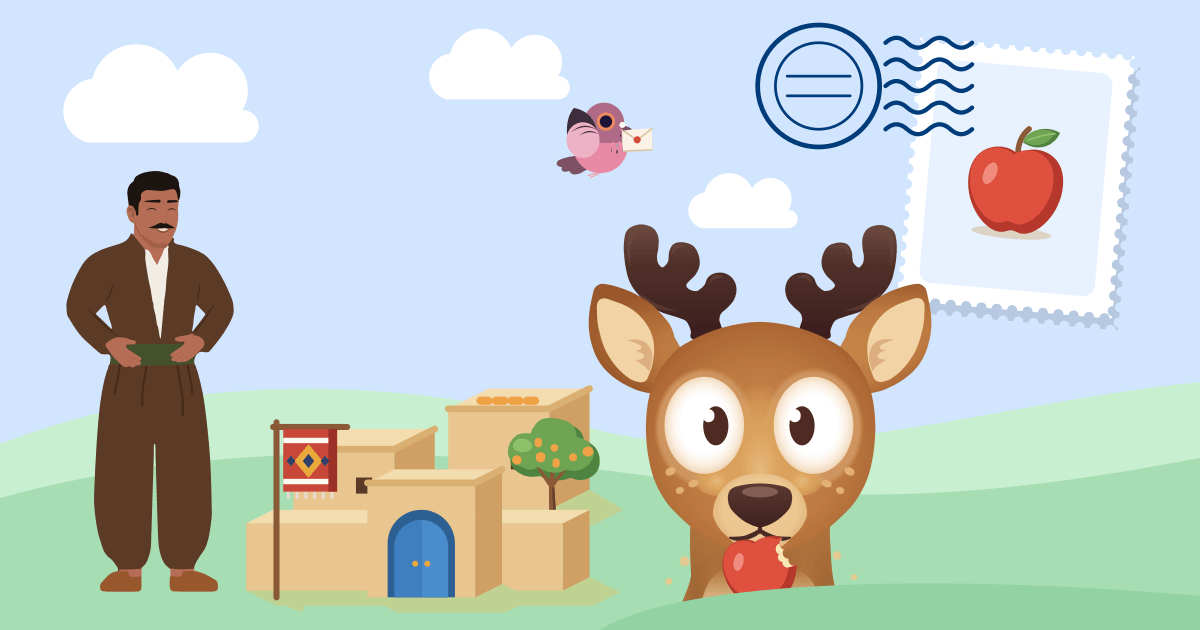
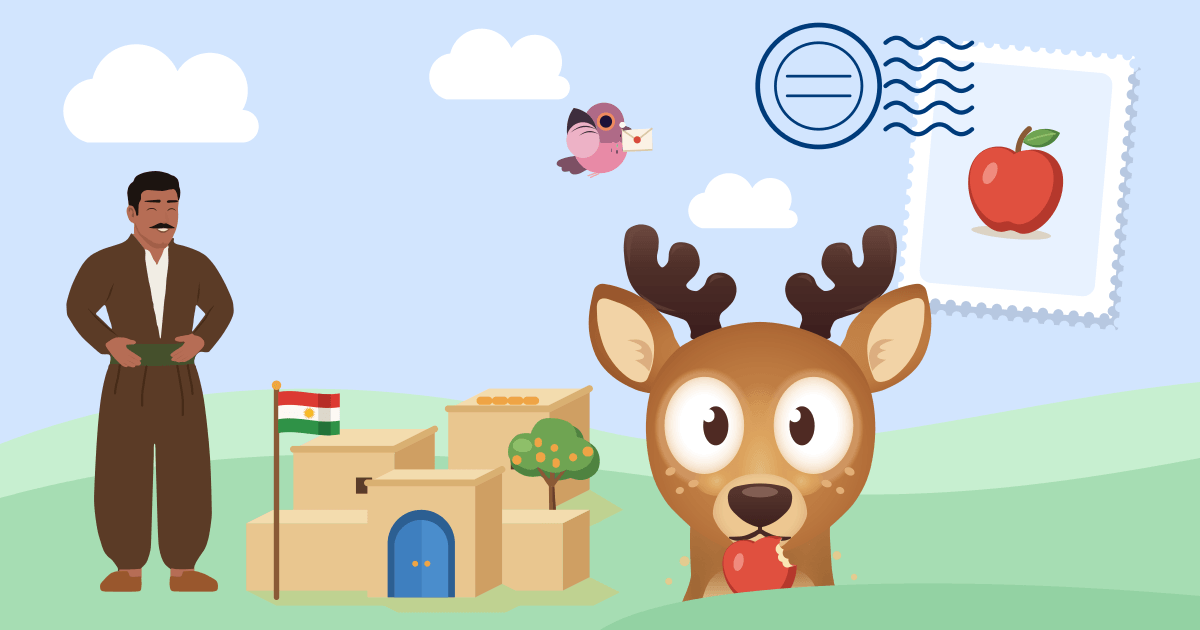
Every flag the flag of Kurdistan: the gate and the bazaar fly it in place of their hung kilims
By Sêvan's gate and over the bazaar's stalls a red kilim hung from a post,
which reads as a flag. Both now fly the flag of Kurdistan on a pole with a
gold knob, at rest in the drawing and stirring on both apps, as the school
and Amed's tower do, so every flag in the lesson path, the book's openers
and stamps, and the share pictures is Kurdistan's. The hung kilim and its
moving sprite are gone. The share pictures are drawn again: the lesson card
shows the gate's flag, and the word game's card the deer as it is drawn now.

Claude-Session: https://claude.ai/code/session_011eKY4xnopr5UAa1vaHj4wo

Changed region(s): [[0.2158, 0.6032, 0.3083, 0.8143]]

diff --git a/shared/src/art/valley-landmarks-1.ts b/shared/src/art/valley-landmarks-1.ts
@@ -129,29 +129,6 @@ function castShadow(x: number, y: number, w: number, d: number, len: number, col
 }
 
 /**
- * A kilim hung from its top edge, filling its 18 × 22 box as the moving
- * sprite does: a madder field with its turned edge in shade, two cream bands,
- * the saffron "eye" diamond with its indigo heart and a small eye either side
- * (the commonest mark of Kurdish flat weaves), and the wool fringe below.
- */
-function kilim(x: number, y: number, dark: boolean): string {
-  const cx = x + 8.5;
-  const cy = y + 10.5;
-  const eye = (ex: number, ey: number, rx: number, ry: number): string =>
-    `M${f(ex)} ${f(ey - ry)}L${f(ex + rx)} ${f(ey)}L${f(ex)} ${f(ey + ry)}L${f(ex - rx)} ${f(ey)}Z`;
-  let fringe = '';
-  for (let k = 0; k < 6; k++) fringe += `M${f(x + 2.5 + k * 2.6)} ${f(y + 19.4)}v2`;
-  return (
-    stroke(fringe, dusk(VALLEY.woolShade, dark), 0.9) +
-    fill(box(x + 1, y + 1, 16, 18.6), dusk(VALLEY.red, dark)) +
-    fill(box(x + 14.4, y + 1, 2.6, 18.6), dusk(VALLEY.redDark, dark)) +
-    fill(box(x + 1, y + 3.6, 13.4, 1.6) + box(x + 1, y + 15.8, 13.4, 1.6), dusk(VALLEY.cream, dark)) +
-    fill(eye(cx, cy, 4.2, 5), dusk(VALLEY.gold, dark)) +
-    fill(eye(cx, cy, 1.7, 2.1) + eye(x + 3.3, cy, 1.3, 1.6) + eye(x + 13.4, cy, 1.3, 1.6), dusk(VALLEY.indigo, dark))
-  );
-}
-
-/**
  * Steam at rest over a samovar, in its 16 × 24 box: three soft puffs going up
  * from the box's foot. By evening it takes a little more of the dusk than a
  * solid thing would, because it is thin and the light comes through it.
@@ -165,19 +142,36 @@ function steam(x: number, y: number, dark: boolean, random: () => number): strin
 // ───────────────────────────────────────────────────────────── the landmarks
 
 /** The first six chapters' landmarks, by name. */
-/** Where the flag of Kurdistan flies over Amed's tower: its pole at x 71, the cloth the apps make stir laid exactly over the one drawn. */
+/*
+ * Where the flag of Kurdistan flies in these chapters, each box's left edge on its pole: by Sêvan's gate to greet
+ * whoever comes up the road, over the bazaar's stalls, and over Amed's tower. The cloth the apps make stir is laid
+ * exactly over the one drawn.
+ */
+const GATE_FLAG: ValleyLandmark['loop'] = { kind: 'colours', x: 15, y: 50, w: 20, h: 16 };
+const BAZAAR_FLAG: ValleyLandmark['loop'] = { kind: 'colours', x: 96, y: 52, w: 20, h: 16 };
 const CITY_FLAG: ValleyLandmark['loop'] = { kind: 'colours', x: 71, y: 12, w: 20, h: 16 };
+
+/** A flagpole from the ground at (x, foot) up to the flag's box, with the gold knob at its top and its sliver of shadow. */
+function flagpole(box: ValleyLandmark['loop'], foot: number, dark: boolean, ground: string): string {
+  const x = box.x;
+  return (
+    fill(`M${f(x - 0.8)} ${f(foot - 0.6)}L${f(x + 6.4)} ${f(foot + 2.2)}L${f(x + 7)} ${f(foot + 1.2)}L${f(x + 0.8)} ${f(foot - 1.2)}Z`, ground) +
+    stroke(`M${f(x)} ${f(foot)}V${f(box.y)}`, dusk(VALLEY.trunk, dark), 1.6) +
+    fill(ellipsePath(x, box.y - 1, 1.4, 1.4), dusk(VALLEY.gold, dark)) +
+    kurdistanFlagAt(box, dark)
+  );
+}
 
 export const VALLEY_LANDMARKS_1: Record<'gate' | 'teahouse' | 'spring' | 'bazaar' | 'busstop' | 'citywall', ValleyLandmark> = {
   /**
    * Sêvan's blue gate: a low earth wall across the picture, the gate's pier
    * standing a little forward of it with the blue double door in its arch,
    * two flat-roofed houses behind (apricots drying on the taller one's
-   * roof), an apricot tree over the wall, and a kilim hung on a post by the
-   * gate to greet whoever comes up the road.
+   * roof), an apricot tree over the wall, and the flag of Kurdistan on its
+   * pole by the gate to greet whoever comes up the road.
    */
   gate: {
-    loop: { kind: 'kilim', x: 16, y: 61, w: 18, h: 22 },
+    loop: GATE_FLAG,
     draw(dark, random) {
       const c = (hex: string): string => dusk(hex, dark);
       const ground = c(GROUND);
@@ -200,11 +194,8 @@ export const VALLEY_LANDMARKS_1: Record<'gate' | 'teahouse' | 'spring' | 'bazaar
       out += fill('M50 112V97A8 8 0 0 1 58 89V112Z', c(VALLEY.gate));
       out += fill('M66 112V97A8 8 0 0 0 58 89V112Z', c(VALLEY.gateLight));
       out += fill(ellipsePath(56.2, 102, 0.9, 0.9) + ellipsePath(59.8, 102, 0.9, 0.9), c(VALLEY.gold));
-      // The kilim hangs on its post by the gate, at rest where the moving sprite will lie.
-      // the post's shadow: a thin sliver along the ground to the lower right, as every shadow in the valley falls
-      out += fill('M14.2 111.4L21.4 114.2L22 113.2L15.8 110.8Z', ground);
-      out += stroke('M15 112V60M14 61.4H36', c(VALLEY.trunk), 1.8);
-      out += kilim(16, 61, dark);
+      // The flag of Kurdistan on its pole by the gate, at rest where the moving cloth will lie; the pole's shadow a thin sliver to the lower right.
+      out += flagpole(GATE_FLAG, 112, dark, ground);
       return out;
     },
   },
@@ -355,11 +346,11 @@ export const VALLEY_LANDMARKS_1: Record<'gate' | 'teahouse' | 'spring' | 'bazaar
   /**
    * Market day: two stalls under striped awnings, one madder and cream, one
    * blue, their counters heaped with apples, apricots and pomegranates,
-   * crates of fruit on the ground before them, and a kilim hung for sale on
-   * its own frame.
+   * crates of fruit on the ground before them, and the flag of Kurdistan
+   * flying over the stalls.
    */
   bazaar: {
-    loop: { kind: 'kilim', x: 95, y: 63, w: 18, h: 22 },
+    loop: BAZAAR_FLAG,
     draw(dark, random) {
       const c = (hex: string): string => dusk(hex, dark);
       const ground = c(GROUND);
@@ -428,11 +419,8 @@ export const VALLEY_LANDMARKS_1: Record<'gate' | 'teahouse' | 'spring' | 'bazaar
       // Crates of apples and apricots stand on the ground before the first stall.
       out += castShadow(8, 112, 14, 6, 5, ground) + block(8, 112, 14, 7, 6, wood) + heap(9.5, 103.6, 13, VALLEY.apple, VALLEY.redDark);
       out += castShadow(24, 113, 12, 6, 5, ground) + block(24, 113, 12, 7, 6, wood) + heap(25, 104.6, 12, VALLEY.fruit, VALLEY.goldDark);
-      // The kilim for sale hangs on its own frame, at rest where the moving sprite will lie.
-      // each post's shadow a thin sliver on the ground to the lower right
-      out += fill('M93.2 107.4L99.4 110.2L100 109.2L94.8 106.8Z' + 'M113.2 105.4L117.4 107.4L118 106.4L114.8 104.8Z', ground);
-      out += stroke('M94 108V62M114 106V62M93 63.4H115', c(VALLEY.trunk), 1.8);
-      out += kilim(95, 63, dark);
+      // The flag of Kurdistan over the stalls, at rest where the moving cloth will lie.
+      out += flagpole(BAZAAR_FLAG, 108, dark, ground);
       return out;
     },
   },

diff --git a/shared/src/art/path-landmark.ts b/shared/src/art/path-landmark.ts
@@ -9,8 +9,8 @@
  * art/valley-landmarks-1.ts and -2.ts. Here they are framed as pictures: on
  * the 120-unit canvas, decorative unless named. Each draws its moving part at
  * rest; the apps lay `pathLoopSvg` over it at `PATH_LANDMARK_LOOP` and move it
- * gently (a kilim or the flag of Kurdistan over the school and Amed's tower
- * in the wind, steam or smoke rising, a ripple, the Newroz flame, a bee, the bus
+ * gently (the flag of Kurdistan by the gate, over the bazaar, the school and
+ * Amed's tower in the wind, steam or smoke rising, a ripple, the Newroz flame, a bee, the bus
  * stop's sign), and hold it still under Reduce Motion.
  */
 import type { PathGround, PathLandmark } from '../path-world.js';
@@ -86,7 +86,6 @@ export interface PathLoopOptions {
 
 /** The sprite's own canvas for each kind: the sprite fills it, and the apps move it about its anchor. */
 const LOOP_VIEW: Record<PathLoopKind, { w: number; h: number }> = {
-  kilim: { w: 18, h: 22 },
   steam: { w: 16, h: 24 },
   water: { w: 30, h: 12 },
   colours: { w: KURDISTAN_FLAG.w, h: KURDISTAN_FLAG.h },
@@ -109,16 +108,6 @@ export function pathLoopSvg(opts: PathLoopOptions): string {
   const c = (hex: string, amount?: number): string => dusk(hex, dark, amount);
   let body = '';
   switch (kind) {
-    case 'kilim': {
-      // a kilim's madder field, a band of cream, an indigo lozenge, the free end a little ragged
-      const w = view.w;
-      const h = 20;
-      body += fill(`M1 1H${w - 1}V${h - 2}L${w - 4} ${h}L${w - 7} ${h - 2}L${w - 10} ${h}L${w - 13} ${h - 2}H1Z`, c(VALLEY.red, 0.2));
-      body += fill(`M1 ${h * 0.3}H${w - 1}V${h * 0.4}H1Z`, c('#f6e3b0', 0.2));
-      body += fill(`M${w / 2} ${h * 0.48}l3.6 ${h * 0.17}l-3.6 ${h * 0.17}l-3.6 ${-h * 0.17}Z`, c(VALLEY.indigo, 0.2));
-      body += fill(`M1 ${h * 0.84}H${w - 1}V${h * 0.9}H1Z`, warm(VALLEY.gold, dark));
-      break;
-    }
     case 'steam':
     case 'smoke': {
       const puff = kind === 'steam' ? (dark ? '#c9cfdc' : '#ffffff') : c(VALLEY.smoke, 0.3);

diff --git a/shared/src/art/valley.test.ts b/shared/src/art/valley.test.ts
@@ -6,9 +6,9 @@
  * otherwise, and the older round trees and poplars, which the lesson path
  * still plants, are measured from what they draw. The Newroz fire burns on
  * its ring of stones on a green mound, its flame at rest in the box the apps
- * make it flicker in. The school and Amed's tower fly the flag of
- * Kurdistan, true to the flag, and the apps make the very same cloth stir
- * over it; no other flag flies. And a landmark laid on a page of its own
+ * make it flicker in. The gate, the bazaar, the school and Amed's tower fly
+ * the flag of Kurdistan, true to the flag, and the apps make the very same
+ * cloth stir over it; no other flag flies. And a landmark laid on a page of its own
  * colour casts that page's shade, not the meadow's.
  */
 import { describe, expect, it } from 'vitest';
@@ -202,6 +202,6 @@ describe('the school’s flag', () => {
       if (loop.kind !== 'colours') continue;
       expect(pathLandmarkSvg({ landmark: landmark as keyof typeof PATH_LANDMARK_LOOP, dark: false }), landmark).toContain(kurdistanFlag(false));
     }
-    expect(Object.entries(PATH_LANDMARK_LOOP).filter(([, l]) => l.kind === 'colours').map(([k]) => k).sort()).toEqual(['citywall', 'school']);
+    expect(Object.entries(PATH_LANDMARK_LOOP).filter(([, l]) => l.kind === 'colours').map(([k]) => k).sort()).toEqual(['bazaar', 'citywall', 'gate', 'school']);
   });
 });

diff --git a/mobile/src/coursemap/PathWorld.tsx b/mobile/src/coursemap/PathWorld.tsx
@@ -129,7 +129,7 @@ function FreshStones({ xml, width, height }: { xml: string; width: number; heigh
   );
 }
 
-/** A unit's landmark, and over it its loop: a kilim or a flag stirring, steam or smoke rising, water rippling, the fire, a bee, a sign. */
+/** A unit's landmark, and over it its loop: the flag of Kurdistan stirring, steam or smoke rising, water rippling, the fire, a bee, a sign. */
 function Landmark({
   landmark,
   ground,
@@ -172,7 +172,6 @@ function Loop({ kind, xml, left, top, width, height, live }: { kind: string; xml
   const wave = t.interpolate({ inputRange: [0, 0.25, 0.5, 0.75, 1], outputRange: [0, 1, 0, -1, 0] });
   const style = ((): object => {
     switch (kind) {
-      case 'kilim':
       case 'colours':
         return { transformOrigin: '0% 0%', transform: [{ rotate: wave.interpolate({ inputRange: [-1, 1], outputRange: ['-5deg', '5deg'] }) }, { scaleX: wave.interpolate({ inputRange: [-1, 0, 1], outputRange: [0.9, 1, 0.94] }) }] };
       case 'steam':

diff --git a/shared/src/art/valley.ts b/shared/src/art/valley.ts
@@ -433,11 +433,12 @@ export function poplarLeaves(dark: boolean): Foliage {
 
 /**
  * The one small moving thing of a landmark, which the apps lay over it and
- * move gently (`pathLoopSvg`): a kilim or the flag of Kurdistan (`colours`,
- * over the school's yard and Amed's tower) stirring, steam or smoke rising,
- * water rippling, the Newroz flame, a bee, the bus stop's sign.
+ * move gently (`pathLoopSvg`): the flag of Kurdistan (`colours`, by the
+ * gate, over the bazaar, the school's yard and Amed's tower) stirring, steam
+ * or smoke rising, water rippling, the Newroz flame, a bee, the bus stop's
+ * sign.
  */
-export type ValleyLoopKind = 'kilim' | 'steam' | 'water' | 'colours' | 'flame' | 'smoke' | 'bee' | 'sign';
+export type ValleyLoopKind = 'steam' | 'water' | 'colours' | 'flame' | 'smoke' | 'bee' | 'sign';
 
 /**
  * A chapter's landmark in the painted valley, on the 120-unit canvas: its

diff --git a/web/src/learn/path.css b/web/src/learn/path.css
@@ -970,7 +970,6 @@ button.lp-scard:focus-visible {
     animation: lp-rise 380ms var(--ease-out) both;
     animation-delay: calc(var(--i, 0) * 45ms);
   }
-  .lp-unit.is-seen .lp-loop.is-kilim,
   .lp-unit.is-seen .lp-loop.is-colours {
     transform-origin: 0 0;
     animation: lp-flutter 2.8s ease-in-out infinite;
